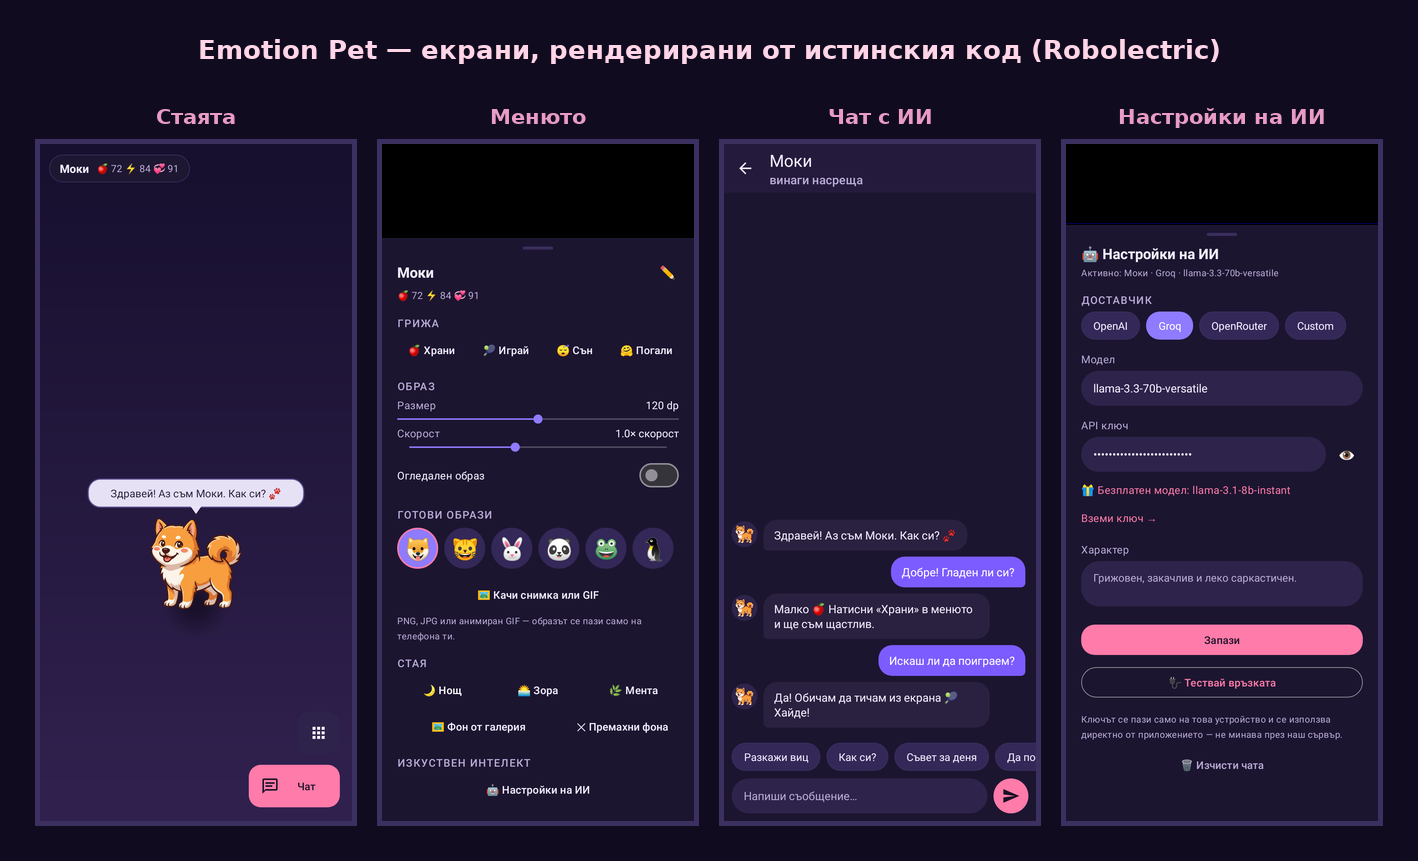
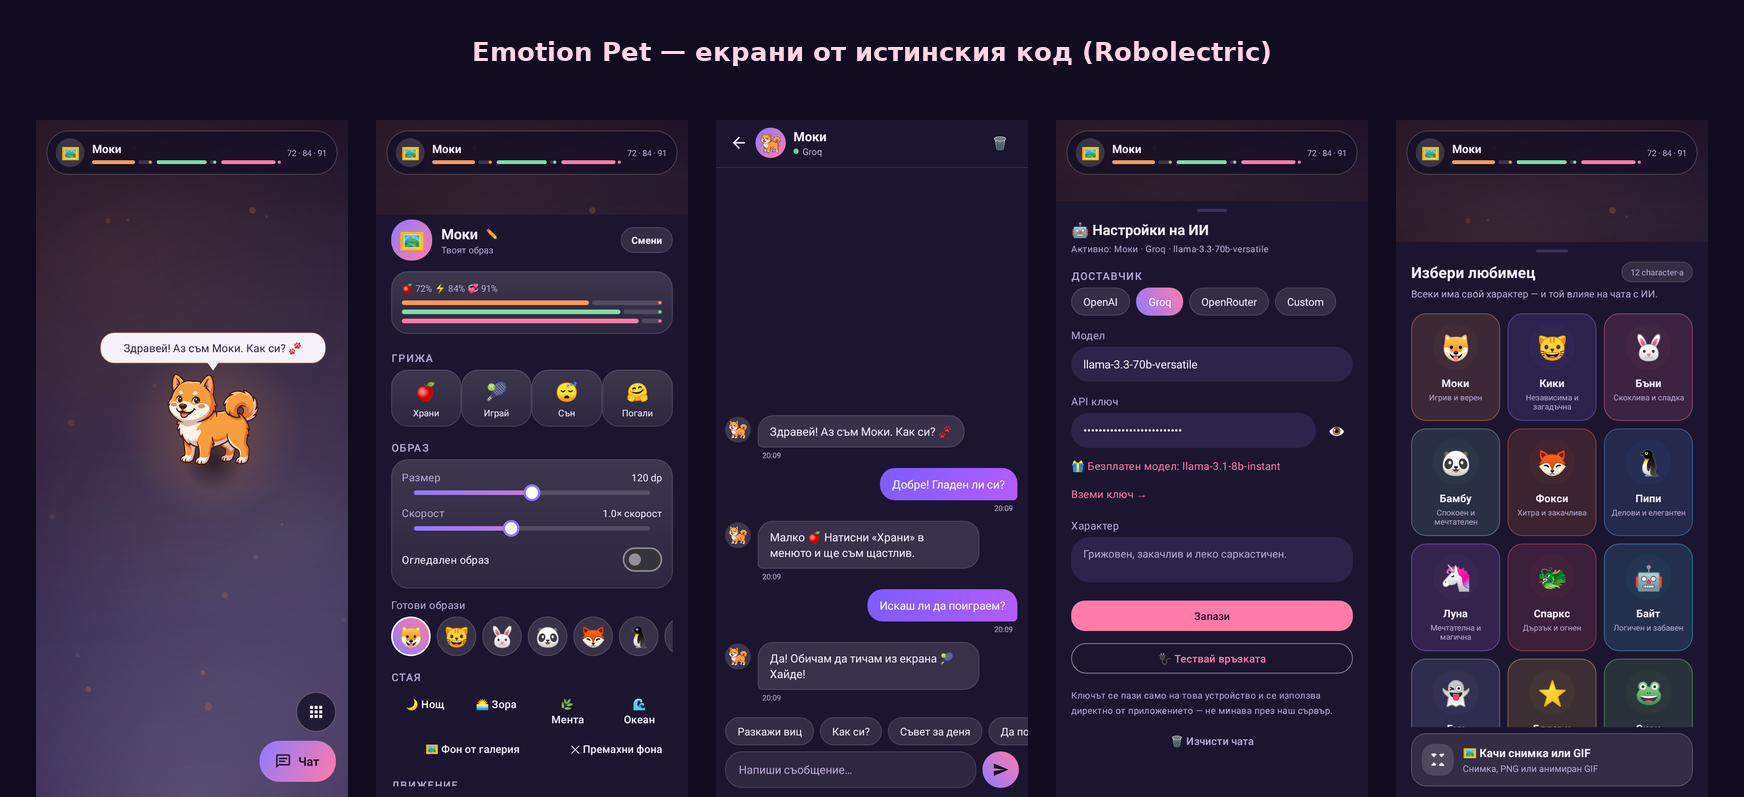
docs: обнови екраните и възможностите в README

diff --git a/app/src/test/java/com/emotion/pet/ScreenshotTest.kt b/app/src/test/java/com/emotion/pet/ScreenshotTest.kt
@@ -163,7 +163,26 @@ class ScreenshotTest {
                 val dialogBmp = Bitmap.createBitmap(screenW, screenH, Bitmap.Config.ARGB_8888)
                 dialogDecor.draw(Canvas(dialogBmp))
                 if (hasVisibleContent(dialogBmp)) {
-                    writePng(dialogBmp, File(outDir, name))
+                    // сглобяваме както изглежда на живо: стаята + затъмнение + листът
+                    val ratio = when {
+                        name.startsWith("05") -> 0.82f
+                        name.startsWith("04") -> 0.88f
+                        else -> 0.86f
+                    }
+                    val top = (screenH * (1 - ratio)).toInt()
+                    val out = room.copy(Bitmap.Config.ARGB_8888, true)
+                    val canvas = Canvas(out)
+                    canvas.drawRect(
+                        0f, top.toFloat(), screenW.toFloat(), screenH.toFloat(),
+                        Paint().apply { color = 0x8C000000.toInt() }
+                    )
+                    canvas.drawBitmap(
+                        dialogBmp,
+                        android.graphics.Rect(0, top, screenW, screenH),
+                        android.graphics.Rect(0, top, screenW, screenH),
+                        null
+                    )
+                    writePng(out, File(outDir, name))
                     return@use
                 }
             }
@@ -204,6 +223,46 @@ class ScreenshotTest {
         return distinct.size > 24
     }
 
+    /** Сглобява обзорна картинка от всички екрани. */
+    private fun buildOverview() = runCatching {
+        val shots = listOf("01-room.png", "02-menu.png", "03-chat.png", "04-ai.png", "05-pets.png")
+            .map { File(outDir, it) }
+            .filter { it.isFile }
+            .map { android.graphics.BitmapFactory.decodeFile(it.absolutePath) }
+        if (shots.isEmpty()) return@runCatching
+        val scale = 0.38f
+        val gap = 28
+        val pad = 36
+        val titleH = 84
+        val widths = shots.map { (it.width * scale).toInt() }
+        val heights = shots.map { (it.height * scale).toInt() }
+        val totalW = pad * 2 + widths.sum() + gap * (shots.size - 1)
+        val totalH = pad + titleH + heights.max()
+        val out = Bitmap.createBitmap(totalW, totalH, Bitmap.Config.ARGB_8888)
+        val canvas = Canvas(out)
+        canvas.drawColor(android.graphics.Color.rgb(16, 11, 30))
+        val title = Paint(Paint.ANTI_ALIAS_FLAG).apply {
+            color = android.graphics.Color.rgb(255, 214, 232)
+            textSize = 24f
+            isFakeBoldText = true
+            textAlign = Paint.Align.CENTER
+        }
+        canvas.drawText(
+            "Emotion Pet — екрани от истинския код (Robolectric)",
+            totalW / 2f, pad + 26f, title
+        )
+        var x = pad.toFloat()
+        val top = (pad + titleH).toFloat()
+        shots.forEachIndexed { i, shot ->
+            val w = widths[i]
+            val h = heights[i]
+            val sc = Bitmap.createScaledBitmap(shot, w, h, true)
+            canvas.drawBitmap(sc, x, top, null)
+            x += w + gap
+        }
+        writePng(out, File(outDir, "00-overview.png"))
+    }.onFailure { record("00-overview.png", it) }
+
     @Test
     fun `рендерира екраните`() {
         val errorsFile = File(outDir, "errors.txt")
@@ -219,6 +278,7 @@ class ScreenshotTest {
         shotSheet("05-pets.png") { activity ->
             PetPickerSheet().also { it.show(activity.supportFragmentManager, PetPickerSheet.TAG) }
         }
+        buildOverview()
         if (errors.isNotEmpty()) {
             File(outDir, "errors.txt").writeText(errors.toString())
             println("SCREENSHOT ERRORS:\n$errors")

diff --git a/README.md b/README.md
@@ -10,9 +10,9 @@
 
 ![Екрани на Emotion Pet](docs/screenshots/00-overview.png)
 
-| Стаята | Менюто | Чатът | Настройки на ИИ |
-|---|---|---|---|
-| [![Стая](docs/screenshots/01-room.png)](docs/screenshots/01-room.png) | [![Меню](docs/screenshots/02-menu.png)](docs/screenshots/02-menu.png) | [![Чат](docs/screenshots/03-chat.png)](docs/screenshots/03-chat.png) | [![ИИ](docs/screenshots/04-ai.png)](docs/screenshots/04-ai.png) |
+| Стаята | Менюто | Чатът | Настройки на ИИ | Избор на любимец |
+|---|---|---|---|---|
+| [![Стая](docs/screenshots/01-room.png)](docs/screenshots/01-room.png) | [![Меню](docs/screenshots/02-menu.png)](docs/screenshots/02-menu.png) | [![Чат](docs/screenshots/03-chat.png)](docs/screenshots/03-chat.png) | [![ИИ](docs/screenshots/04-ai.png)](docs/screenshots/04-ai.png) | [![Любимци](docs/screenshots/05-pets.png)](docs/screenshots/05-pets.png) |
 
 > Снимките не са монтаж — истинските `MainActivity`, `MenuSheet`, `ChatActivity` и `AiSheet` се рендерират в PNG от `ScreenshotTest` (Robolectric) при всеки push, а CI ги качва в `docs/screenshots/`.
 
@@ -22,12 +22,15 @@
 
 | | |
 |---|---|
-| 🐕 **Живее на екрана** | Разхожда се сам из стаята, спира да почине, обикаля, „диша". Докоснеш ли го — реагира и казва нещо. |
-| 🖼 **Къстам образ** | Качи своя снимка, PNG или **анимиран GIF** от галерията, или избери от 20 готови emoji-та. Регулираш размер, скорост и огледален образ. |
+| 🐕 **Живее на екрана** | Разхожда се сам из стаята, спира да почине, понякога тича с всичка сила. Докоснеш ли го — реагира и казва нещо. |
+| 🐾 **12 любимци на избор** | Моки 🐶, Кики 🐱, Бъни 🐰, Бамбу 🐼, Фокси 🦊, Пипи 🐧, Луна 🦄, Спаркс 🐲, Байт 🤖, Буу 👻, Блясък ⭐ и Скок 🐸 — всеки със свой характер, цвят и глас в чата. |
+| 🏀 **Отскача от стените** | DVD-стил: любимецът се отблъсква с възстановяване на скоростта, сплесква се при удар (squash & stretch), рисува ударна вълна и искри. Можеш да го изключиш от менюто. |
+| ✨ **Модерна стая** | Градиентни палитри (Тъмнина, Залез, Мента, Океан), стъклени карти, цветен ореол около любимеца, плаващи светлинки. |
+| 🖼 **Къстам образ** | Качи своя снимка, PNG или **анимиран GIF** от галерията, или избери от 30 готови emoji-та. Регулираш размер, скорост и огледален образ. |
 | 🤖 **Чат с ИИ** | Един бутон „Чат" отдолу вдясно. С API ключ (OpenAI, Groq, OpenRouter или собствен OpenAI-съвместим сървър) любимецът говори наистина умно. Без ключ отговаря вградената логика — работи и офлайн. |
 | 🍎 **Грижа** | Храни го, играй с него, сложи го да спи, погали го. Ситостта, енергията и настроението се менят с времето — ако не се грижиш, любимецът огладнява и заспива. |
 | 🖐 **Хвърляне** | Хвани го с пръст и го занеси къде искаш — или го метна, с инерция. |
-| 🖼 **Фон на стаята** | Три цветови палитри или собствена снимка от галерията като фон. |
+| 🖼 **Фон на стаята** | Собствена снимка от галерията като фон (или една от четирите палитри). |
 | 💬 **Памет** | Чатът се помни между пусканията. |
 | 🔒 **Поверителност** | Всичко (образ, статове, история, API ключ) се пази само на телефона. Няма наш сървър, няма акаунти. |
 
